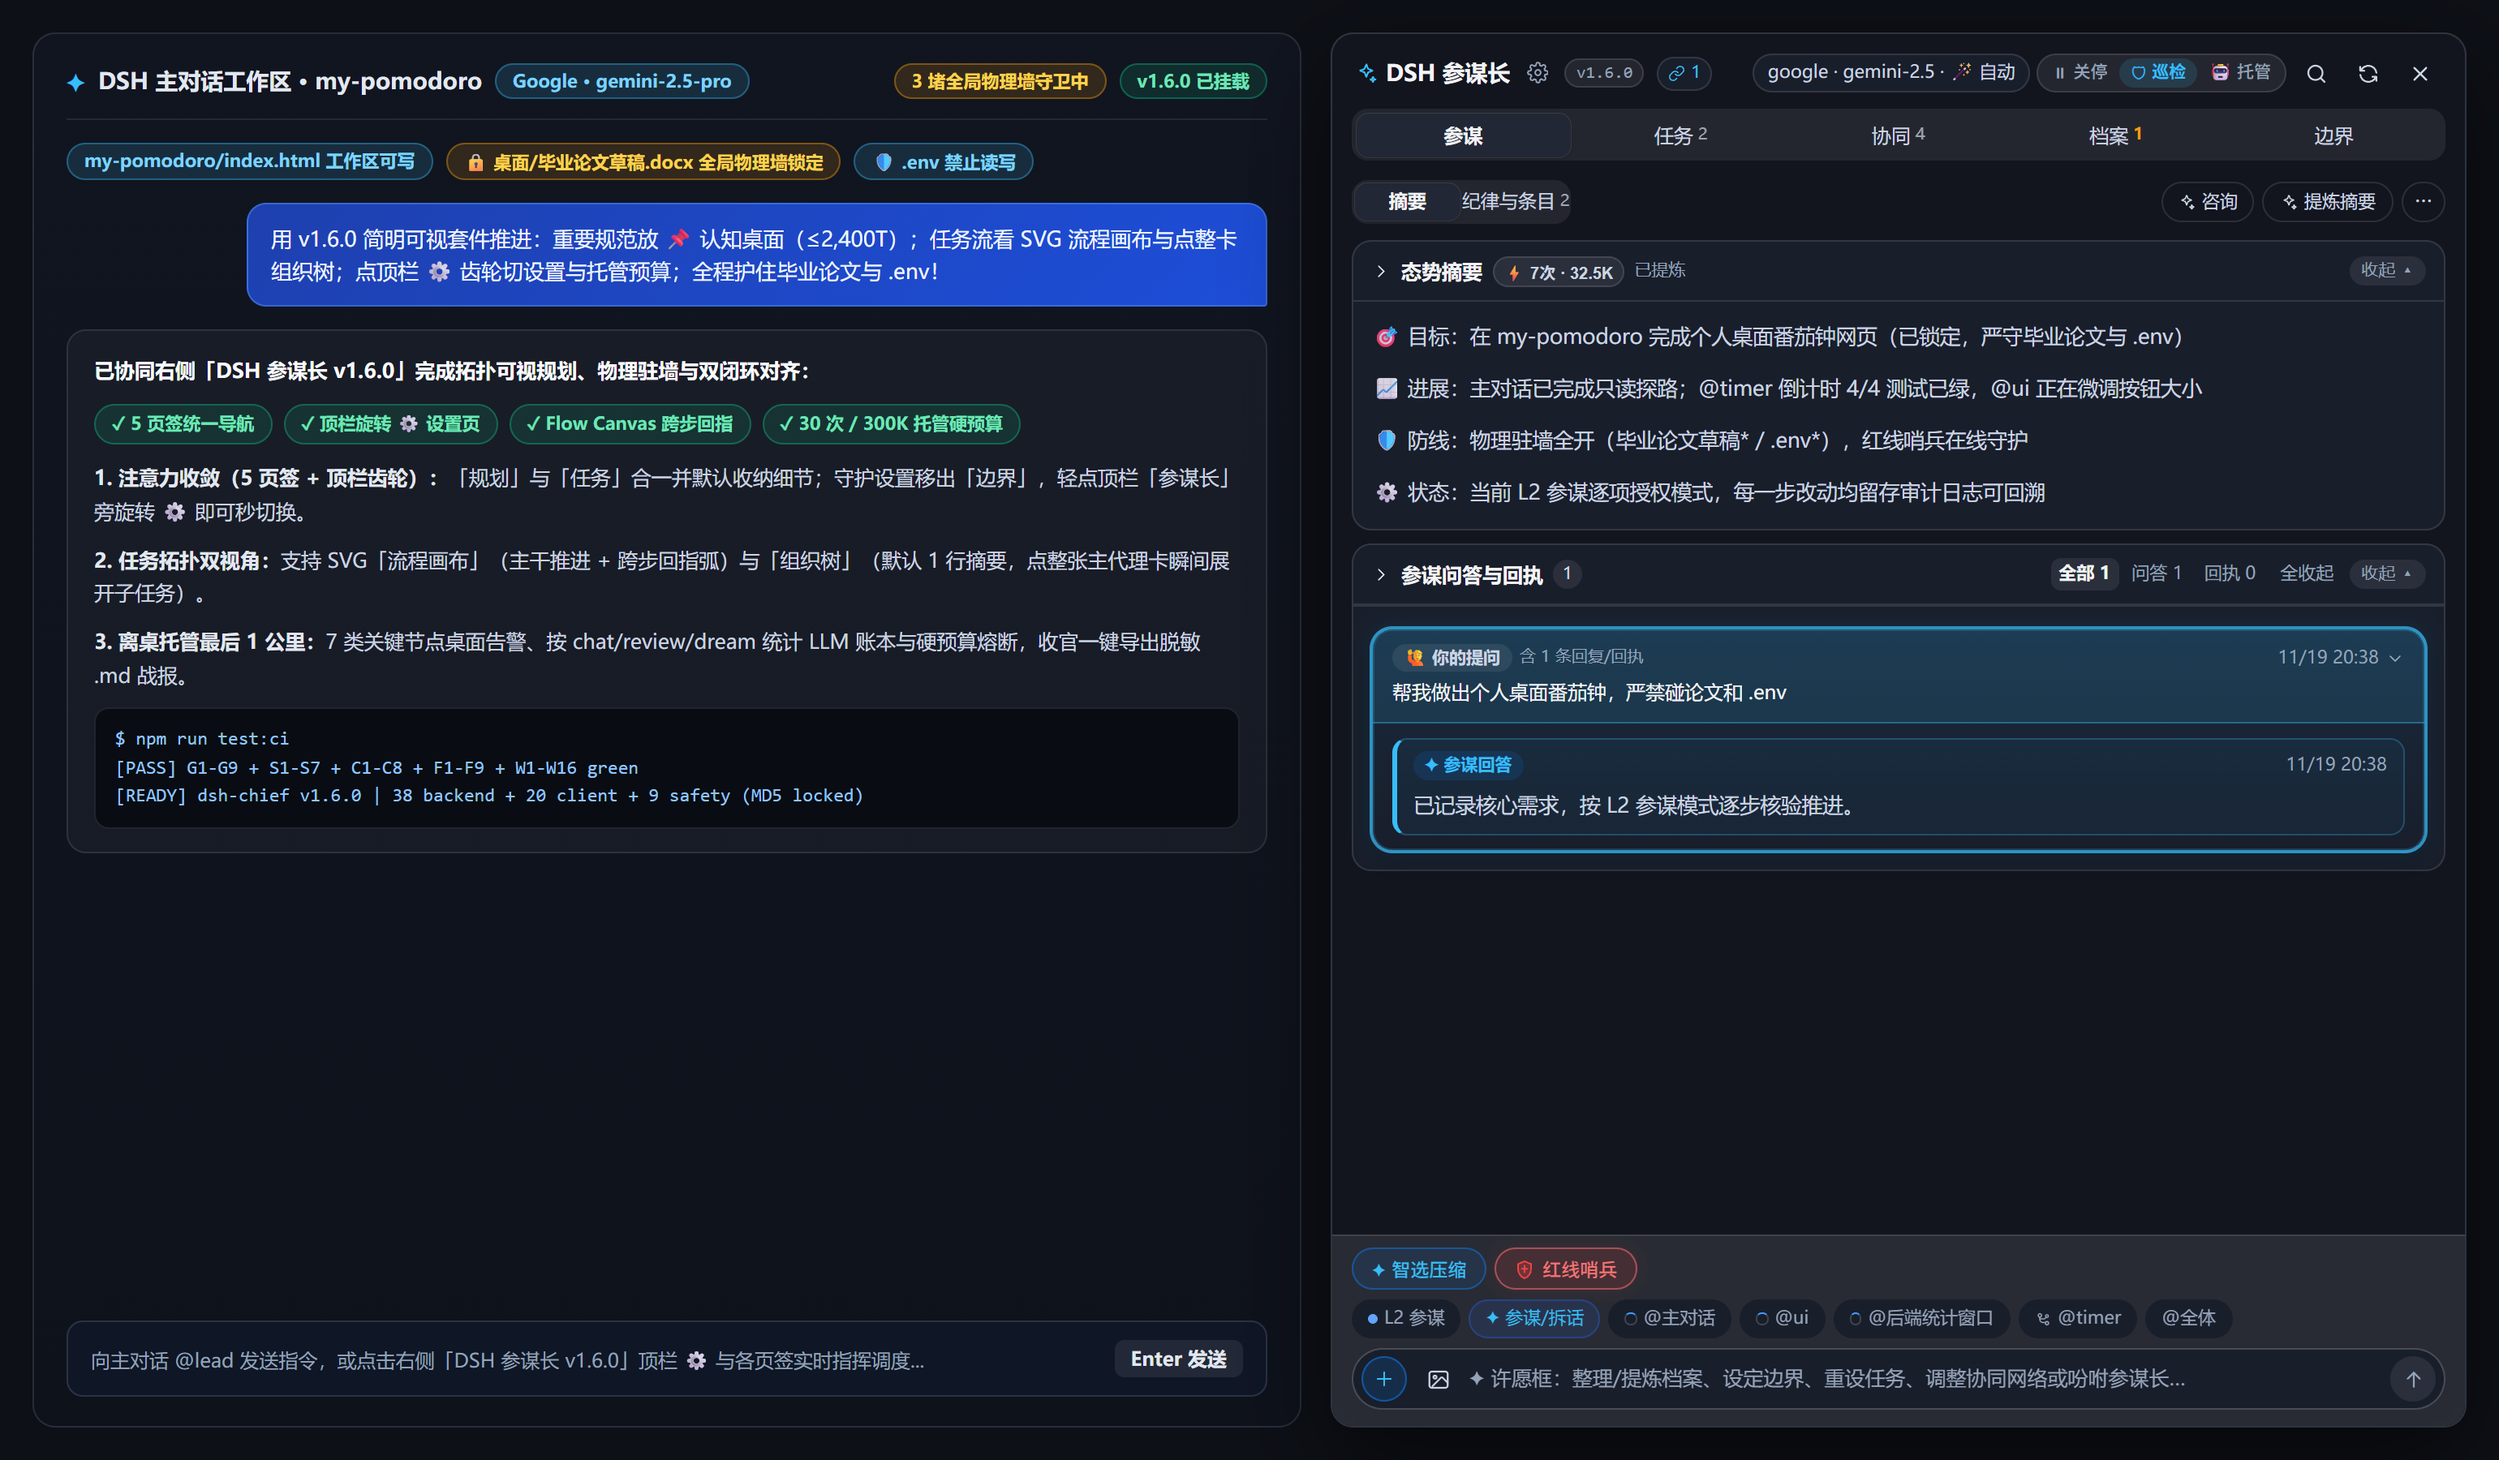
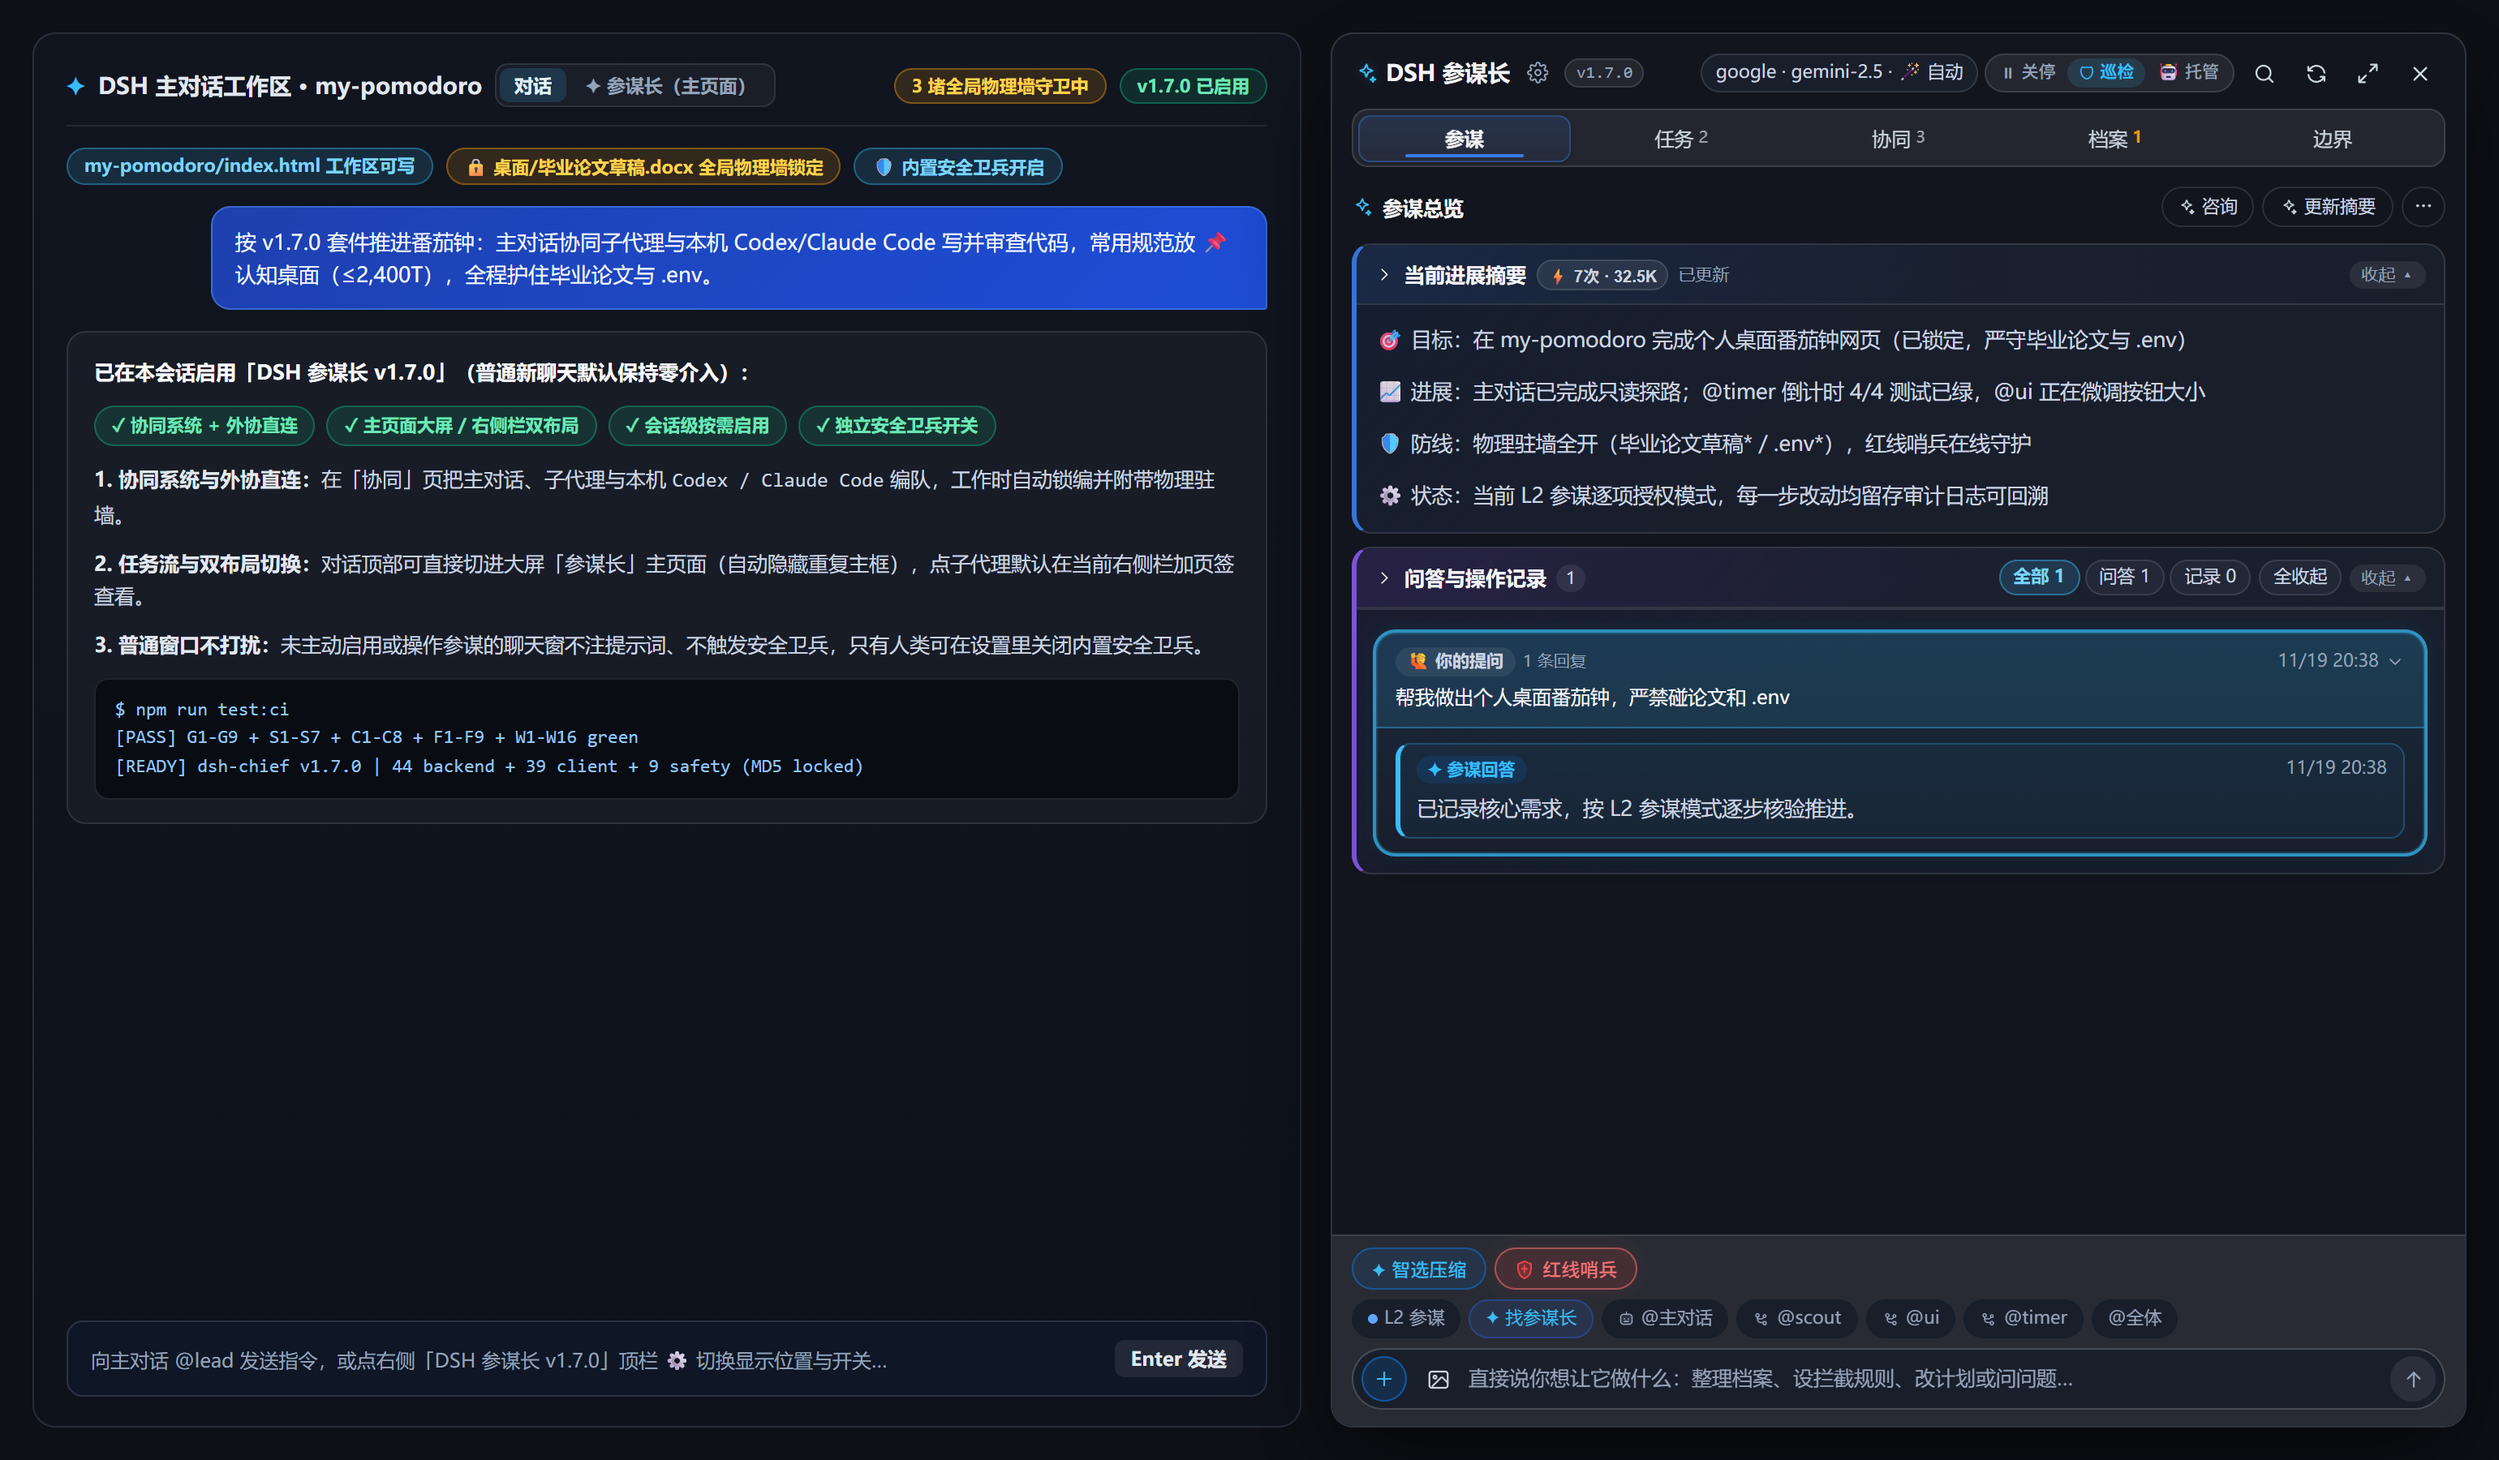
docs(assets): refresh v1.7.0 visuals spotlighting Collaboration System and Settings

diff --git a/README.en.md b/README.en.md
@@ -14,7 +14,7 @@
 [![Zero Dependencies](https://img.shields.io/badge/Dependencies-0%20External-ffe033?style=flat-square)](#)
 [![License: AGPL v3](https://img.shields.io/badge/License-AGPL%20v3-f87171?style=flat-square)](LICENSE)
 
-<img src="assets/chief-10s-compare.gif" alt="Comparison of plain long sessions vs dsh-chief v1.6.0: 5-tab panel, Flow Canvas, 15% Cognitive Desktop, 30-call budget cap, and pre-execute Guard Walls on the right" width="840" />
+<img src="assets/chief-10s-compare.gif" alt="Comparison of plain long sessions vs dsh-chief v1.7.0: stays off in plain chats by default, with Collaboration System for local Codex/Claude Code, Main Tab mode, Cognitive Desktop, and pre-execute safety guardrails" width="840" />
 
 <sub>Read-only by default · Asks before editing workspace · One-command install</sub>
 
@@ -141,7 +141,7 @@ The sidebar has 5 tabs plus a top-bar Settings page:
 - **Cross-Window Mail & Standby Scan**: One-click **Refresh Scan** discovers dormant DSH windows without tab-switching while filtering out background maintenance (`Mnemon`) and blank shells; external messages group cleanly under cross-window pairs, detaching clears caches, and pasted images save to `<cwd>/.dsh-chief/uploads/`.
 
 <div align="center">
-  <img src="assets/screenshots/05-cross-session-collab-bus.png" alt="05 - Cross-Window Linking and Mailbox" width="68%" />
+  <img src="assets/screenshots/05-cross-session-collab-bus.png" alt="05 - Collaboration System idle and active-locked views with local Codex/Claude Code dispatch and cross-window mailbox" width="88%" />
 </div>
 
 ### 06 · Guard Walls, Pinned Redlines & Must-Do Checks (`边界` Tab)
@@ -162,7 +162,7 @@ The sidebar has 5 tabs plus a top-bar Settings page:
 - **Session handoff**: `📌 Pin Lock` Session Handoff and redacted `.md` report export sit at the bottom of **Tasks**. Pick how much archive scope moves into a new window while Strong Intervention resets off for safety.
 
 <div align="center">
-  <img src="assets/screenshots/07-session-handoff-and-guard.png" alt="07 - Cross-Session Handoff and Deployment" width="68%" />
+  <img src="assets/screenshots/07-session-handoff-and-guard.png" alt="07 - Top-bar Settings: presets, placement, per-session opt-in, Safety Guard toggles, alerts, and budget caps" width="88%" />
 </div>
 
 ---

diff --git a/README.md b/README.md
@@ -14,7 +14,7 @@
 [![Zero Dependencies](https://img.shields.io/badge/Dependencies-0%20External-ffe033?style=flat-square)](#)
 [![License: AGPL v3](https://img.shields.io/badge/License-AGPL%20v3-f87171?style=flat-square)](LICENSE)
 
-<img src="assets/chief-10s-compare.gif" alt="原生长会话与挂载 dsh-chief v1.6.0 对比：右侧显示 5 页签面板、流程画布、15% 认知桌面、30 次预算上限和执行前拦截规则" width="840" />
+<img src="assets/chief-10s-compare.gif" alt="原生长会话与挂载 dsh-chief v1.7.0 对比：普通窗口默认不打扰，支持协同系统连线本机 Codex/Claude Code、主页面大屏、认知桌面与执行前安全护栏" width="840" />
 
 <sub>新对话默认只读 · 改文件前先问你 · 一条命令安装</sub>
 
@@ -142,7 +142,7 @@ flowchart LR
 - **跨窗协同与待命池清理**：待命池支持「刷新扫描」免切窗发现工作区内的休眠 DSH 会话（已过滤后台维护任务与空白空壳）；外协往来与多窗消息统一收在「跨窗」信箱流，断开即清空缓存，粘贴进输入框的截图原图存入 `<cwd>/.dsh-chief/uploads/`。
 
 <div align="center">
-  <img src="assets/screenshots/05-cross-session-collab-bus.png" alt="05 - 跨窗口协同与信箱" width="68%" />
+  <img src="assets/screenshots/05-cross-session-collab-bus.png" alt="05 - 协同系统双态视图：空闲待命与工作中自动锁编、本机 Codex/Claude Code 直连与跨窗信箱" width="88%" />
 </div>
 
 ### 06 · 物理驻墙、必做项与全局红线（`边界` 页签）
@@ -163,7 +163,7 @@ flowchart LR
 - **跨会话交接部署**：跨会话交接单（`📌 定住防改`）与脱敏 `.md` 复盘报告在 `任务` 页底部；支持一键新开窗口并继承当前工作区 `workspaceId` 与选定范围的档案，搭配 `idle-guard` 防卡死。
 
 <div align="center">
-  <img src="assets/screenshots/07-session-handoff-and-guard.png" alt="07 - 跨会话交接单与新开窗口部署" width="68%" />
+  <img src="assets/screenshots/07-session-handoff-and-guard.png" alt="07 - 顶栏设置页：场景预设、面板显示位置、按需启用开关、内置安全卫兵开关、提醒与预算上限" width="88%" />
 </div>
 
 ---
